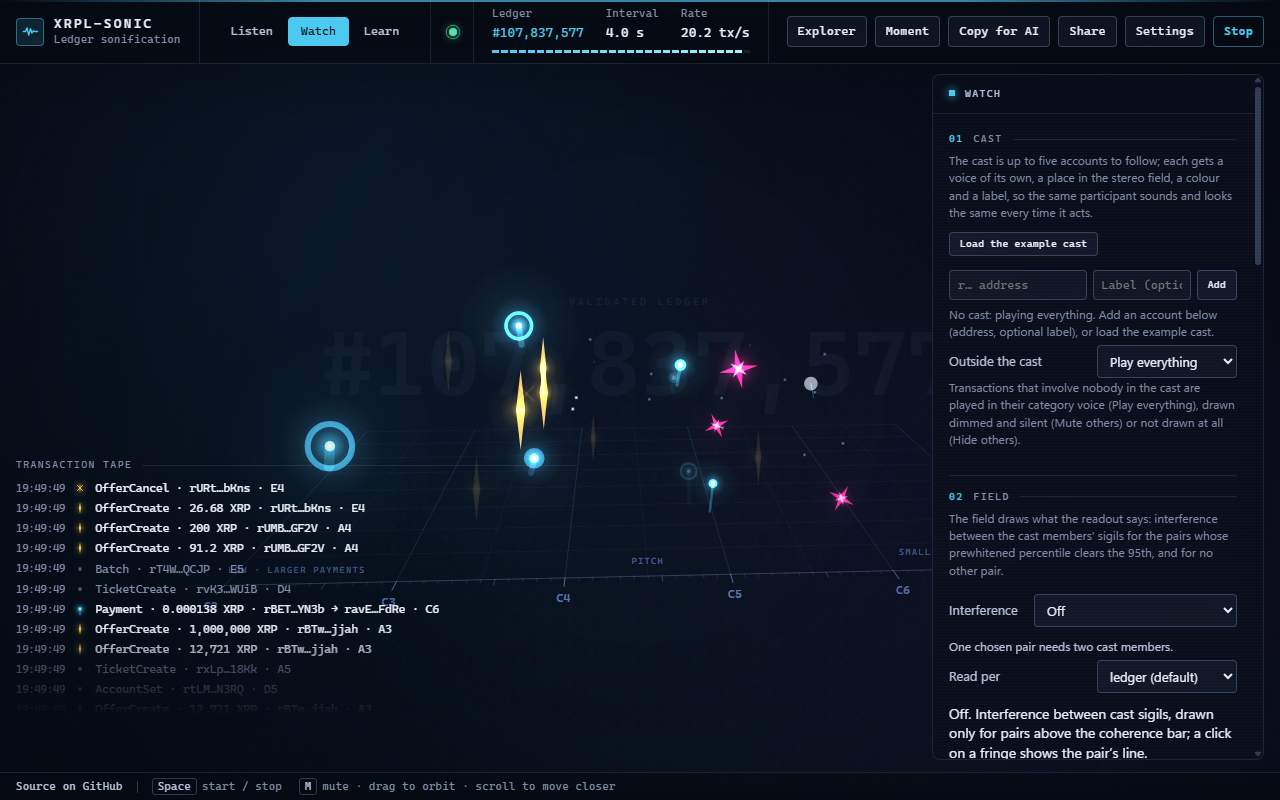
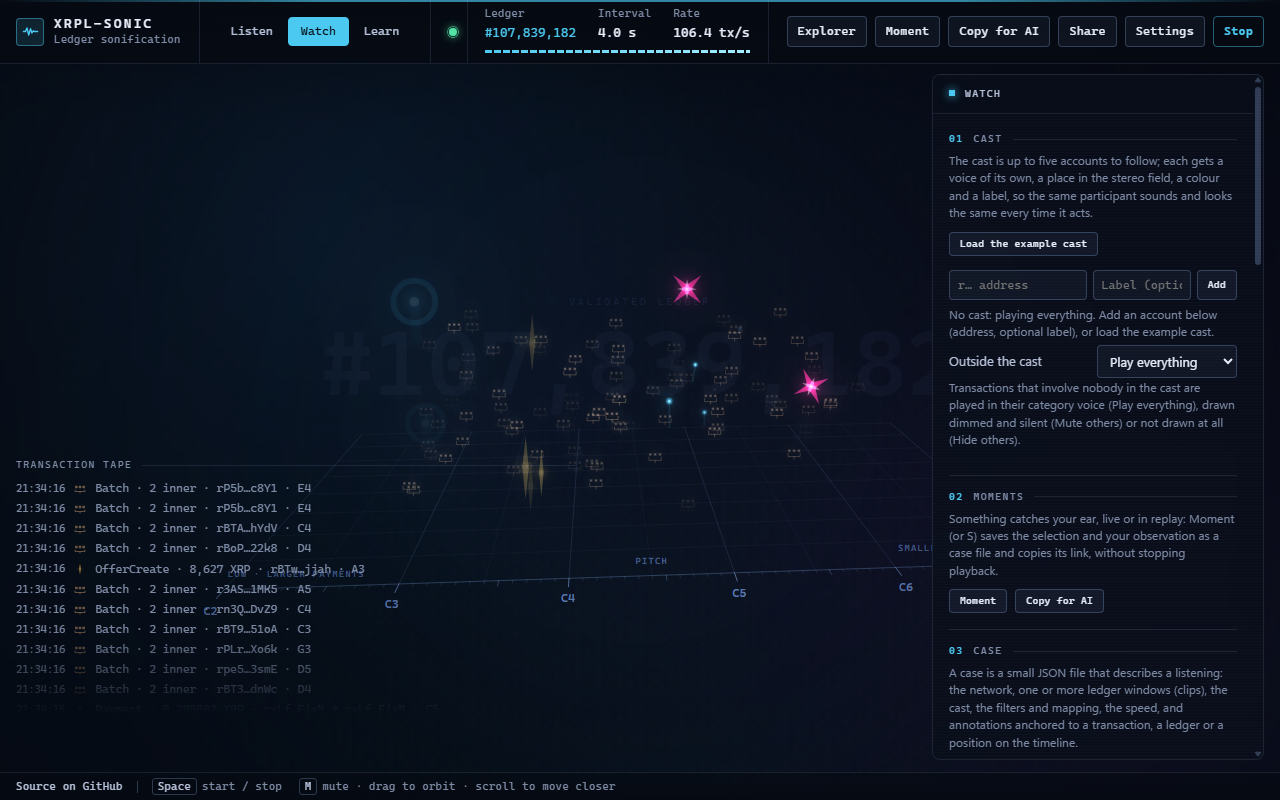
feat: the Field under Coherence in the Watch workbench
The Field group follows the Case group, whose Coherence button opens
the readout, so the picture sits below its numbers: Cast, Moments,
Case, Field, Geiger. docs/ux.md records the placement as the owner's
decision; the other proposals stand as proposed. The Watch screenshot
is retaken.

diff --git a/src/ui.js b/src/ui.js
@@ -362,8 +362,8 @@ export function createUI({ settings, onChange, onToggleRun, onShare, onMoment, o
     ]),
   );
 
-  // Watch: the workbench beside the plate; Learn: the tours
-  workbenchGroups?.append(castPanel.root, fieldPanel.root, momentsGroup, casePanel.root, geigerPanel.root);
+  // Watch: the workbench beside the plate, the Field under Coherence (the Case group's readout) so the picture sits below its numbers; Learn: the tours
+  workbenchGroups?.append(castPanel.root, momentsGroup, casePanel.root, fieldPanel.root, geigerPanel.root);
   learnGroups?.append(learnPanel.root);
   setView(settings.view ?? 'listen', { announce: false });
 

diff --git a/docs/ux.md b/docs/ux.md
@@ -9,11 +9,11 @@ Three modes in the top bar, one of which is in force at a time; Settings is a pa
 | Mode | What it is for | What is on screen | Top-bar actions |
 | --- | --- | --- | --- |
 | **Listen** | Hear the ledger. | The plate, the transaction tape, the sound; the transport when a case plays. | Start/Stop · Share · Settings · the Explorer link |
-| **Watch** | Follow accounts and keep what you find. | The plate with a workbench beside it: Cast, Case (load, save, link, notes), Moments (save this moment, the saved question), Coherence (the readout drawer and the field), Copy for AI, Import notes. | Start/Stop · Moment · Copy for AI · Share · Settings · the Explorer link |
+| **Watch** | Follow accounts and keep what you find. | The plate with a workbench beside it, in this order: Cast; Moments (save this moment, the saved question, Copy for AI); Case (load, save, link, notes, Import notes, and Coherence, whose readout opens in the drawer); Field, directly under Coherence, so the picture sits below its numbers; Geiger. | Start/Stop · Moment · Copy for AI · Share · Settings · the Explorer link |
 | **Learn** | Be shown. | The plate with a tour panel: three tours built from the existing captions and transport: the legend, follow a payment, the market maker's cadence. The legend is a click away from every mode. | Start/Stop · Settings |
 | **Settings** (panel) | Configure the instrument. | Sound, Stream, Transaction types, Node, MIDI, Capture, Session. | opens from every mode |
 
-Where today's groups go: Sound, Stream and Transaction types, Node, MIDI, Capture and Session stay in Settings (the brief names sound, stream, MIDI and capture; Transaction types, Node and Session are placed with them as proposals, see the end). Cast, Case, Field, Geiger, the coherence readout, Copy for AI and Import notes move to the Watch workbench (Field and Geiger are placed there as proposals: both watch accounts). The tours are new and live in Learn.
+Where today's groups go: Sound, Stream and Transaction types, Node, MIDI, Capture and Session stay in Settings (the brief names sound, stream, MIDI and capture; Transaction types, Node and Session are placed with them as proposals, see the end). Cast, Case, Field, Geiger, the coherence readout, Copy for AI and Import notes move to the Watch workbench (Geiger is placed there as a proposal: it watches accounts; the Field sits under Coherence by the owner's decision, so the picture is below its numbers). The tours are new and live in Learn.
 
 The welcome overlay offers the three doors with one line each, in the words of the README: Listen, "every transaction on the XRP Ledger becomes a sound, every ledger close a pulse"; Watch, "follow up to five accounts, each with a voice of its own, save a moment, read the coherence between them"; Learn, "three short tours: the legend, follow a payment, the market maker's cadence". The legend (the field guide tiles that are on the start screen today) stays one click away in every mode.
 
@@ -90,7 +90,7 @@ Every empty or guarded state says what it is and what to do next, in the order o
 
 What the documents do not settle and this pass had to decide:
 
-- Where Transaction types, Node, Session, Field and Geiger live in the three modes (the brief names only sound, stream, MIDI and capture for Settings, and cast, case, moments, coherence, Copy for AI and Import notes for Watch).
+- Where Transaction types, Node, Session, Field and Geiger live in the three modes (the brief names only sound, stream, MIDI and capture for Settings, and cast, case, moments, coherence, Copy for AI and Import notes for Watch). Accepted as proposed, except the Field: it sits under Coherence (after the Case group, whose Coherence button opens the readout), so the picture is below its numbers.
 - The example cast itself: the page has no example cast today. The README's example link (`#cast=rBTw…~Maker…,rKNR…~Issuer`) and the sample case's cast (Sender A and Sender B) are the two casts the documents show; the pass takes the README's as the example cast and labels a cast that equals it "Example cast".
 - The wording of guard reasons ("Needs a loaded case…"), the tape's empty line, the not-judged arithmetic ("at its rate so far it would need about N more ledgers"), the three doors' one-liners (cut from the README) and the tours' scripts: the tours use the field guide's labels, sounds and track descriptions (`src/glyphs.js`, which the README's sound-mapping table is rendered from), the sample case's annotations ("state only counts taken from the ledgers", README) and the measured cadence of the market maker (coherence.md, "Measurements": a cadence of 3 ledgers, self-correlation 0.96 around the sample case) with no sentence beyond those sources.
 - The drawer as the home of the readouts, and "Copy raw" as its button's name.
@@ -108,7 +108,7 @@ What the documents do not settle and this pass had to decide:
 ## As built (PR 2)
 
 - **The modes.** `settings.view` (`listen`, `watch`, `learn`; `VIEWS` in `src/settings.js`) is remembered with the settings and defaults to Listen; `body[data-view]` carries it. The top bar's switch (`#modes`, three buttons with `aria-pressed`) sets it; on a narrow screen `src/ui.js` moves the switch out of the top bar to the bottom edge, because a fixed element inside the bar is contained by the bar's backdrop filter. Settings is a toggle in every mode and overlays the mode's own panel.
-- **Watch** is `#workbench`, an aside with the panel's own styles where the settings panel sits, holding Cast, Field, Moments (Moment, Copy for AI and the loaded moment's question), Case (load, save, link, transcript, Copy for AI, coherence, notes, Import notes) and Geiger. Settings keeps Sound, Stream, Transaction types, Node, MIDI, Capture and Session. The groups are built once and appended to one side or the other; nothing in them changed.
+- **Watch** is `#workbench`, an aside with the panel's own styles where the settings panel sits, holding, in order, Cast, Moments (Moment, Copy for AI and the loaded moment's question), Case (load, save, link, transcript, Copy for AI, coherence, notes, Import notes), Field (under Coherence, so the picture sits below its numbers) and Geiger. Settings keeps Sound, Stream, Transaction types, Node, MIDI, Capture and Session. The groups are built once and appended to one side or the other; nothing in them changed.
 - **Learn** is `#learn`, the same kind of aside, with the three tours from `src/tours.js` (pure, tested): each a list of steps with a sentence and an action; `src/ui-learn.js` shows the tour cards, the step's sentence in a live region with its legend tile, and Back, Next and Exit; `src/main.js` takes the actions through what exists (fetch a shipped case through `openCase`, Start, seek the transport, pause, open the inspector, play, open the coherence drawer, turn the field on) and sends the sentence to the caption strip as well. The legend tour is the field guide, one step per transaction type and one for the ledger close, in `src/glyphs.js`'s own words. Follow a payment loads the sample case, shows its first annotation, seeks to the first payment and shows the transport's own caption for it, opens the inspector with the README's sentence, plays with the keys line, and ends with the transport's end caption. The market maker's cadence loads a new sixteen-ledger case around the sample case (`docs/cases/cadence-107777802-107777817.sonic-case.json`, its description the first step: the fifty-ledger case empties the public cluster's quota, docs/coherence.md finding 9, and a tour cannot wait minutes), opens the coherence drawer with docs/coherence.md's finding and the window's own accounts line appended (read from the report, so a partial window says what it has), turns the field on, and ends. Measured on `s2.ripple.com` the sixteen ledgers give Sender A a cadence of 3 ledgers (self-correlation 0.98), AR(2); through the cluster two or three of the sixteen ledgers come back unavailable and the readout says so, and when another case was fetched in the same minute the cluster's retry delays stretch the load to minutes (each refused ledger waits out the client's 20-second timeout twice): the Learn panel shows the transport's own loading count meanwhile, and a paced loader or an endpoint preference for case fetches stays outside this pass, as docs/coherence.md finding 9 left it.
 - **The welcome overlay** offers the three doors (`.door[data-view]`), one line each: Listen's is the page's own lede, Watch's and Learn's are cut from the README's cast sentence and the three tours' names; Listen and Watch start the stream in that mode, Learn opens the tours. The legend tiles sit behind a `details` named Legend, one click away. The lede under the doors is used only for a pending case's message, as before.
 - **The top bar per mode**: Listen shows Explorer, Share, Settings, Start/Stop; Watch adds Moment and Copy for AI; Learn shows Explorer, Settings, Start/Stop. Start/Stop is in every mode; the S key still saves a moment anywhere.
